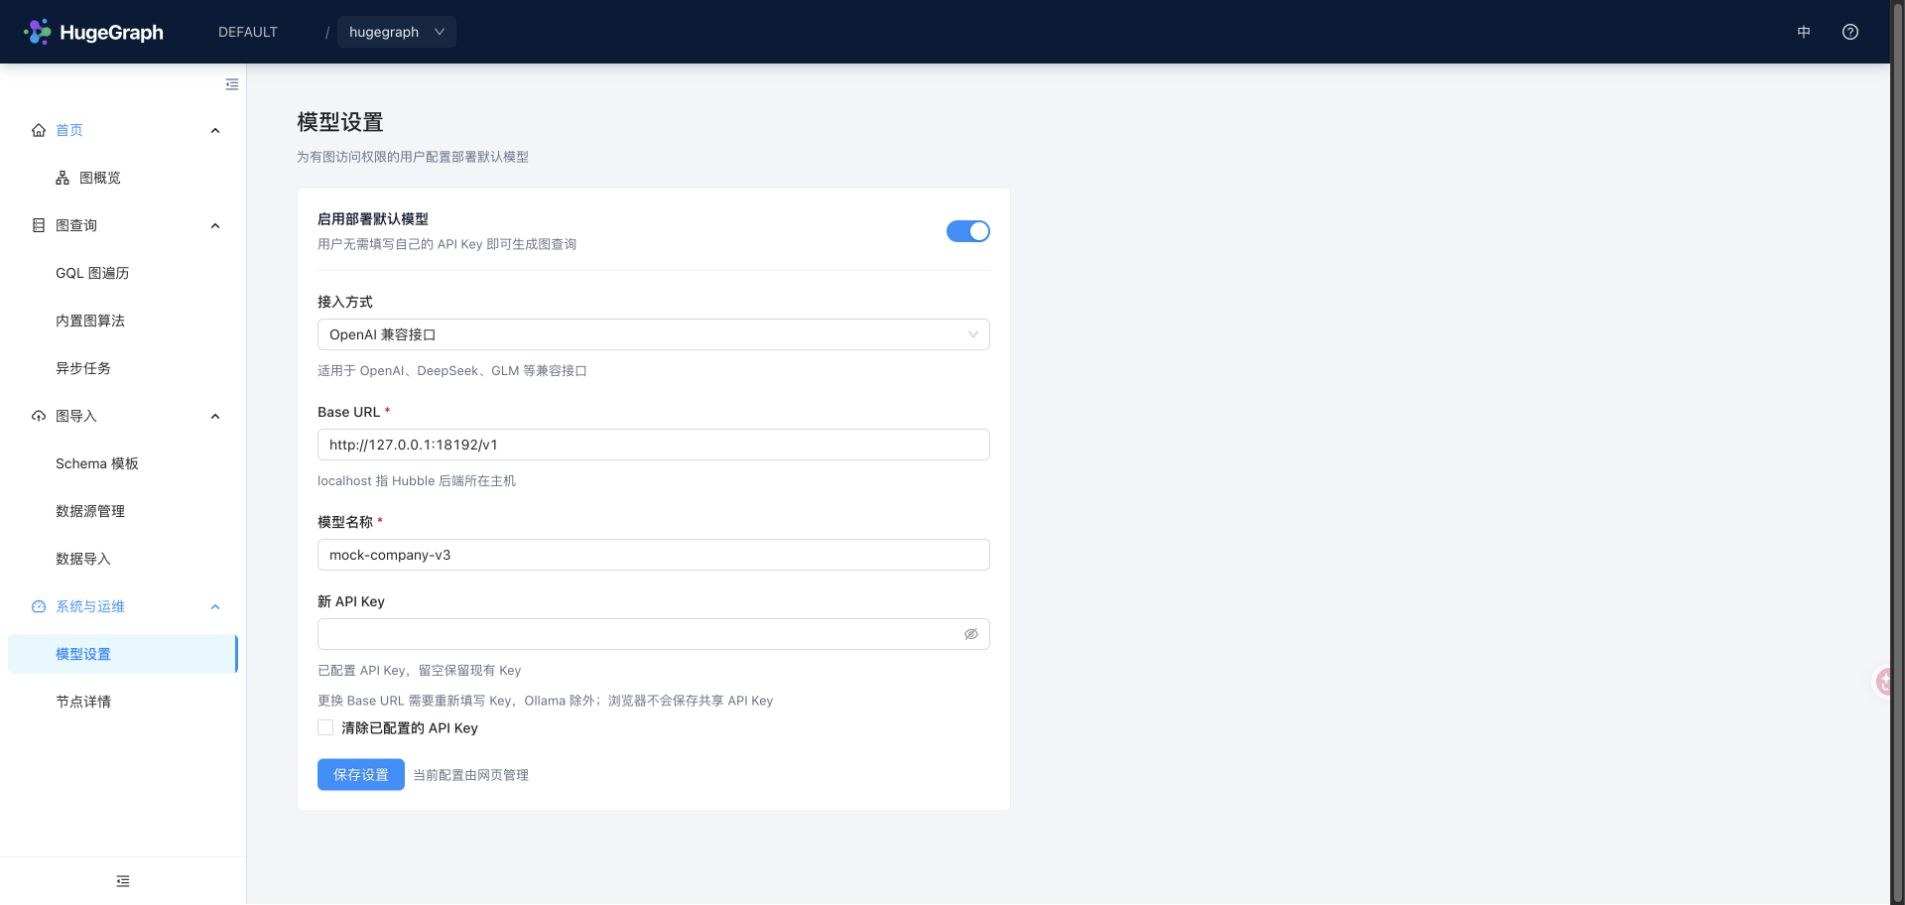
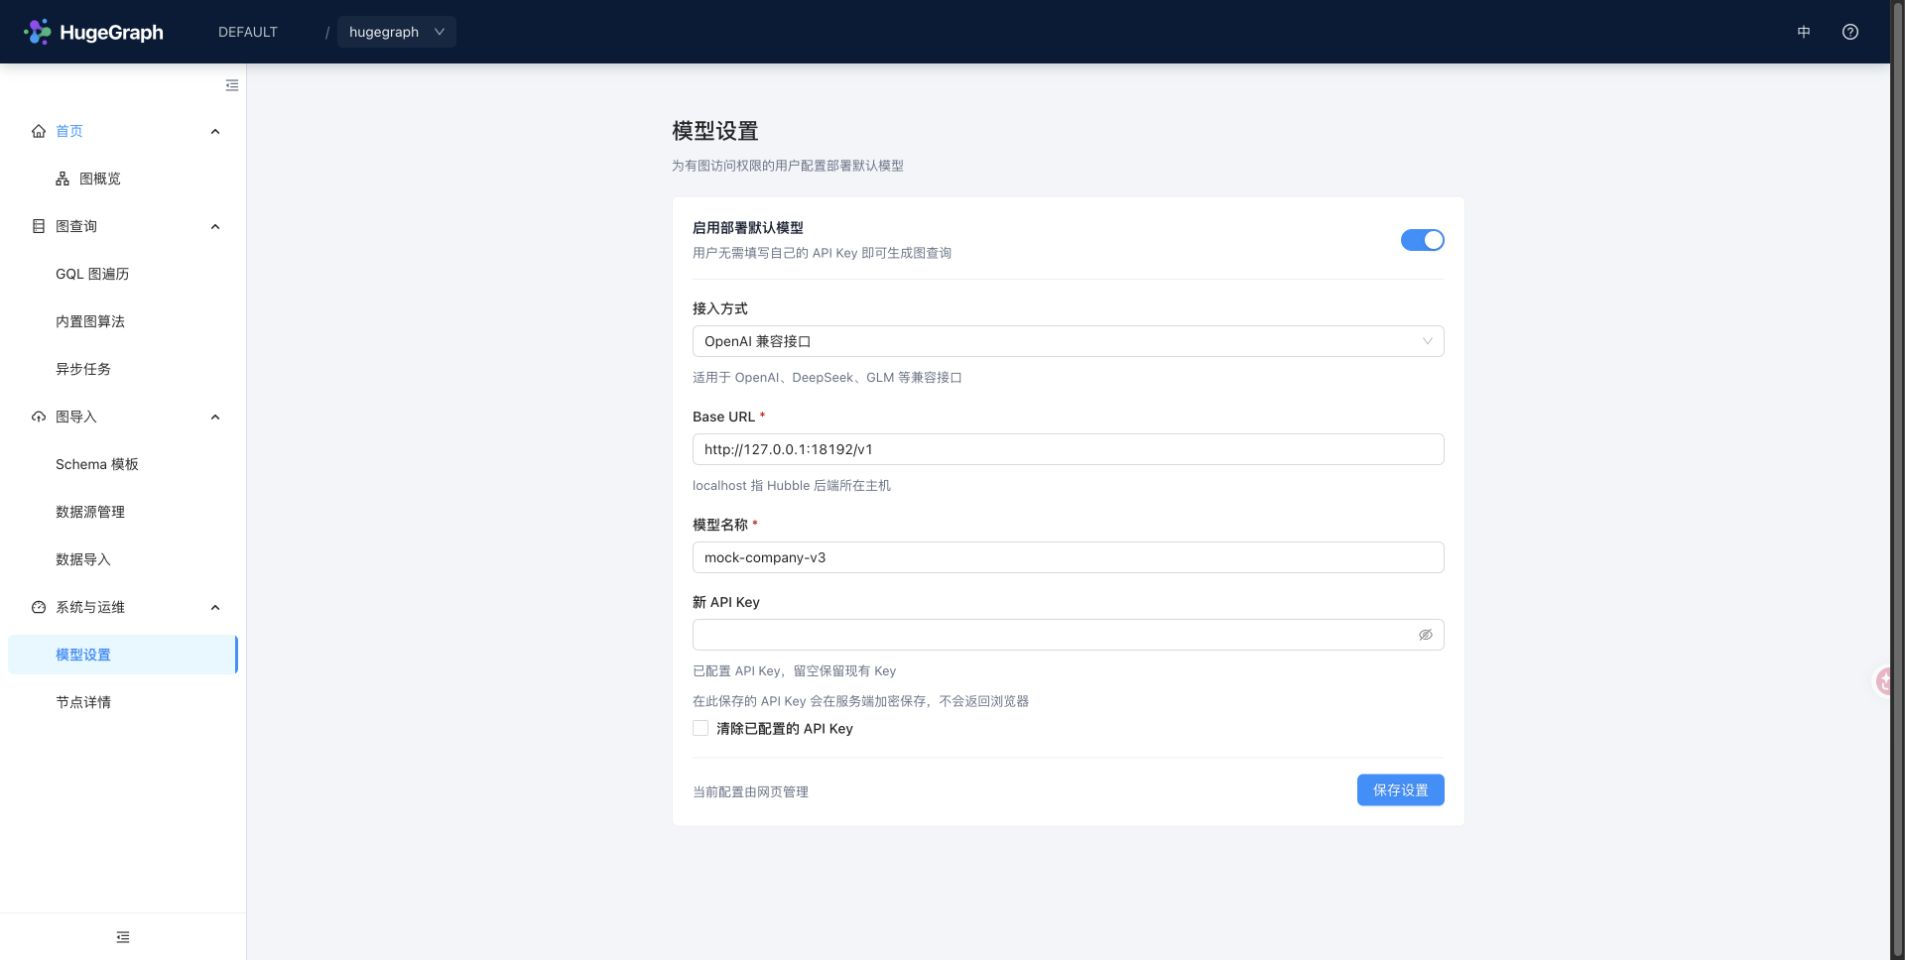
fix(hubble): center the model settings form
- center the page with one shared content width
- align the configuration source and save action
- refine key guidance and narrow-screen spacing
- refresh the settings screenshot after design review

diff --git a/hugegraph-hubble/hubble-fe/src/pages/Text2GqlSettings/index.js b/hugegraph-hubble/hubble-fe/src/pages/Text2GqlSettings/index.js
@@ -17,7 +17,7 @@
  */
 
 import {useCallback, useEffect, useRef, useState} from 'react';
-import {Alert, Button, Checkbox, Input, Select, Space, Spin, Switch} from 'antd';
+import {Alert, Button, Checkbox, Input, Select, Spin, Switch} from 'antd';
 import {useTranslation} from 'react-i18next';
 import {useAuthContext} from '../../auth/AuthContext';
 import * as api from '../../api';
@@ -268,14 +268,14 @@ const Text2GqlSettingsForm = () => {
                             </p>
                         )}
                     </div>
-                    <Space wrap>
-                        <Button type='primary' disabled={cannotSave} loading={saving} onClick={save}>
-                            {t('analysis.model_settings.save')}
-                        </Button>
+                    <footer className={c.actions}>
                         <span className={c.source}>{t(saved.source === 'managed'
                             ? 'analysis.model_settings.source_managed' : 'analysis.model_settings.source_deployment')}
                         </span>
-                    </Space>
+                        <Button type='primary' disabled={cannotSave} loading={saving} onClick={save}>
+                            {t('analysis.model_settings.save')}
+                        </Button>
+                    </footer>
                 </section>
             )}
         </main>

diff --git a/hugegraph-hubble/hubble-fe/src/pages/Text2GqlSettings/index.module.scss b/hugegraph-hubble/hubble-fe/src/pages/Text2GqlSettings/index.module.scss
@@ -18,8 +18,10 @@
 
 .page {
     width: 100%;
-    max-width: 1000px;
-    padding: 24px clamp(16px, 3vw, 32px) 40px;
+    max-width: 864px;
+    box-sizing: border-box;
+    margin-inline: auto;
+    padding: 32px clamp(16px, 3vw, 32px) 40px;
 
     h2 {
         margin: 0 0 8px;
@@ -40,8 +42,8 @@
 
 .form {
     display: grid;
-    max-width: 720px;
-    gap: 20px;
+    min-width: 0;
+    gap: 18px;
     margin-top: 16px;
     padding: 20px;
     background: #fff;
@@ -71,6 +73,25 @@
     label {
         font-weight: 600;
     }
+
+    :global(.ant-switch) {
+        flex-shrink: 0;
+    }
+}
+
+.actions {
+    display: flex;
+    flex-wrap: wrap;
+    gap: 12px 16px;
+    align-items: center;
+    justify-content: space-between;
+    padding-top: 16px;
+    border-top: 1px solid #f0f0f0;
+
+    :global(.ant-btn) {
+        flex-shrink: 0;
+        margin-inline-start: auto;
+    }
 }
 
 .page .field p.required {
@@ -80,4 +101,15 @@
 .requiredLabel::after {
     color: #cf1322;
     content: ' *';
+}
+
+@media (max-width: 480px) {
+    .page {
+        padding-top: 24px;
+    }
+
+    .form {
+        gap: 16px;
+        padding: 16px;
+    }
 }
